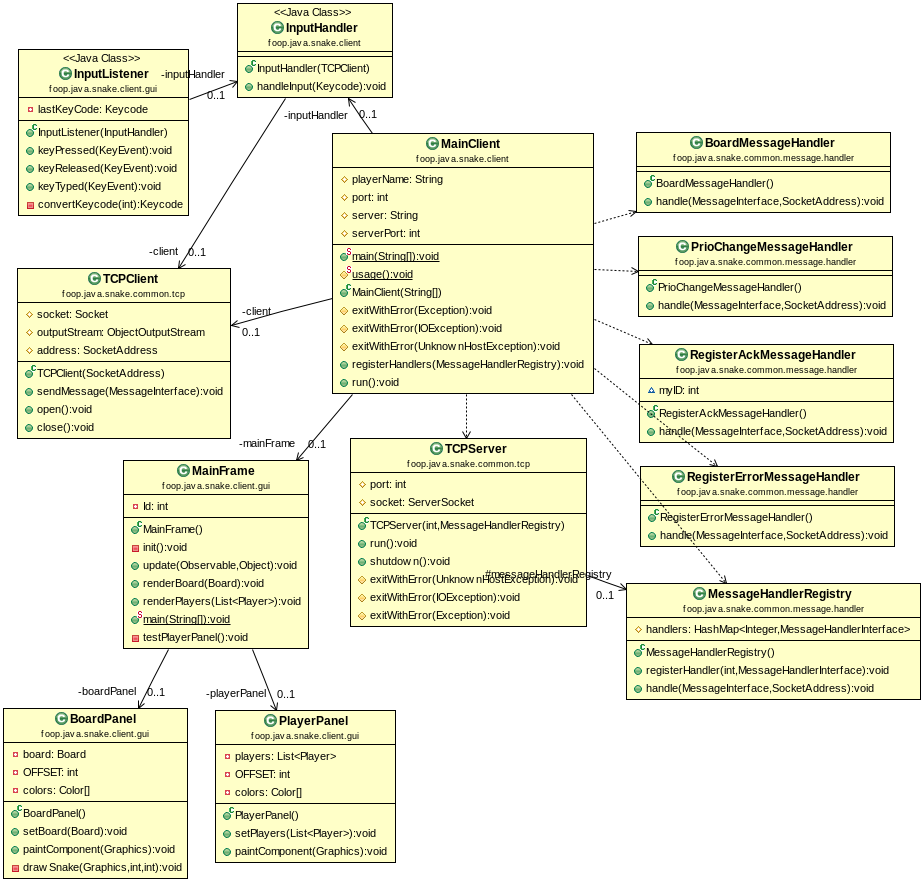
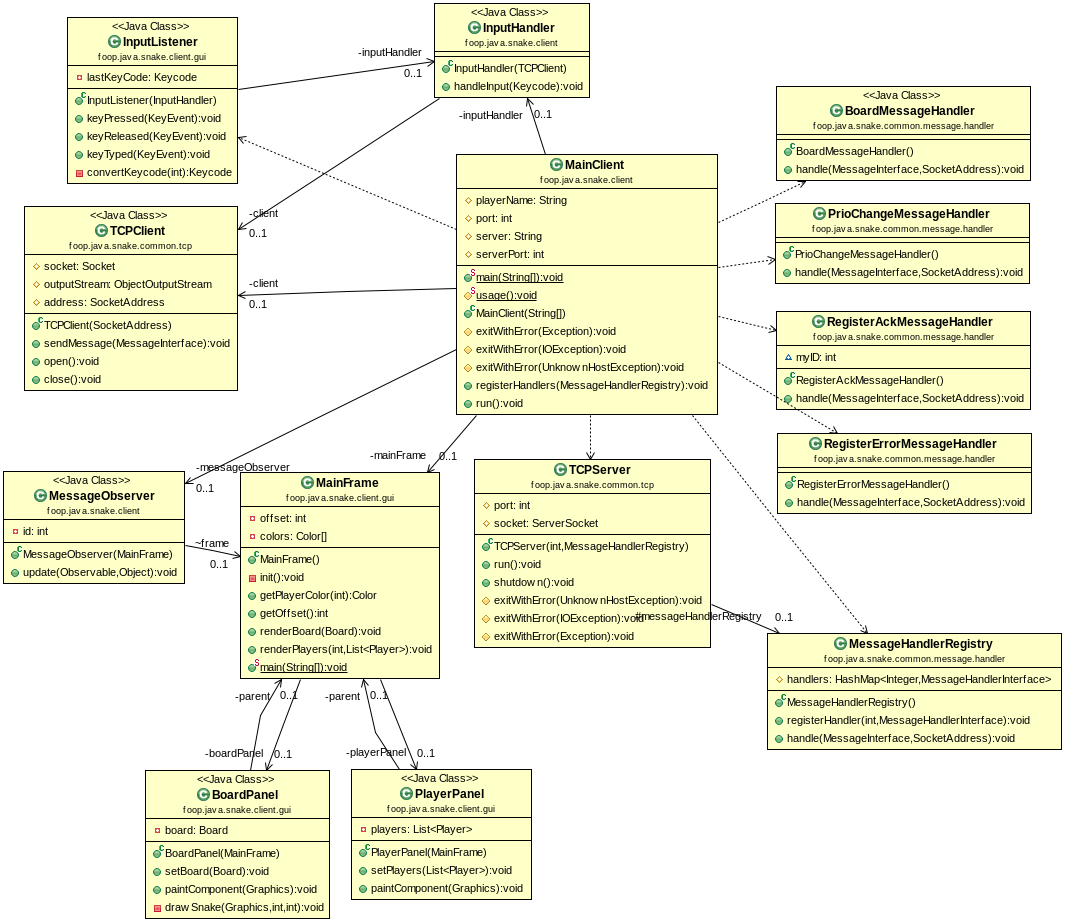
Deregister on close

diff --git a/snake-java/client/src/foop/java/snake/client/gui/MainFrame.java b/snake-java/client/src/foop/java/snake/client/gui/MainFrame.java
@@ -2,7 +2,6 @@ package foop.java.snake.client.gui;
 
 import foop.java.snake.common.board.Board;
 import foop.java.snake.common.player.*;
-
 import javax.swing.*;
 
 import java.awt.*;
@@ -14,12 +13,11 @@ import java.util.List;
  * Date: 26.03.13
  * Time: 13:33
  */
-public class MainFrame extends JFrame implements Observer {
+public class MainFrame extends JFrame {
     //panel where the board is rendered
     private BoardPanel boardPanel;
     private PlayerPanel playerPanel;
 
-    private int id = 0; //our Player-ID
     private int offset = 20;
     private Color[] colors = new Color[] {
             Color.blue,
@@ -34,7 +32,8 @@ public class MainFrame extends JFrame implements Observer {
     public MainFrame() {
         init();
         //set some frame properties
-        this.setDefaultCloseOperation(WindowConstants.EXIT_ON_CLOSE);
+        // do nothing but add a window listener...
+        this.setDefaultCloseOperation(WindowConstants.DO_NOTHING_ON_CLOSE);
         this.setTitle("Snake");
         this.setSize(722, 623);
         this.setVisible(true);
@@ -64,25 +63,6 @@ public class MainFrame extends JFrame implements Observer {
     }
 
     /**
-     * we have been updated by the Observable --> do something
-     * unfortunately Observer is not generic. We have to check and cast
-     * Not so very nice but I do not really want to create gerneri Observer/Observable for this
-     */
-    @Override
-    public void update(Observable o, Object arg) {
-        // Now, this is the problem here. We still have to distinguish from which Observable this is comming...
-        if (arg instanceof List<?>) {
-            this.renderPlayers((List<Player>)arg);
-        }
-        if (arg instanceof Board) {
-            this.renderBoard((Board)arg);
-        }
-        if (arg instanceof Integer) {
-            this.id=((Integer)arg).intValue();
-        }
-    }
-
-    /**
      * takes a board and renders int on the board panel
      * @param board board
      */
@@ -95,7 +75,7 @@ public class MainFrame extends JFrame implements Observer {
      * takes a list of @see {Player}-objects and renders int on the playeröierarchy panel
      * @param players List of Players
      */
-    public void renderPlayers(List<Player> players) {
+    public void renderPlayers(int id, List<Player> players) {
     	playerPanel.setPlayers(players);
     	playerPanel.repaint();
     }
@@ -113,7 +93,7 @@ public class MainFrame extends JFrame implements Observer {
         pl.add(new Player("Player 3", 2, 3, 1));
         pl.add(new Player("Player 4", 3, 6, 2));
         pl.add(new Player("Player 5", 4, 2, 3));
-        mainFrame.renderPlayers(pl);
+        mainFrame.renderPlayers(0, pl);
 
         Board board = new Board(30, 30);
         Byte[][] b = new Byte[][]{

diff --git a/snake-java/client/src/foop/java/snake/client/MainClient.java b/snake-java/client/src/foop/java/snake/client/MainClient.java
@@ -1,8 +1,13 @@
 package foop.java.snake.client;
 
+import java.awt.event.WindowAdapter;
+import java.awt.event.WindowEvent;
+import java.awt.event.WindowListener;
 import java.io.IOException;
 import java.net.InetSocketAddress;
 import java.net.UnknownHostException;
+
+import javax.swing.WindowConstants;
 
 import foop.java.snake.client.gui.InputListener;
 import foop.java.snake.client.gui.MainFrame;
@@ -11,6 +16,7 @@ import foop.java.snake.common.message.PrioChangeMessage;
 import foop.java.snake.common.message.RegisterAckMessage;
 import foop.java.snake.common.message.RegisterErrorMessage;
 import foop.java.snake.common.message.RegisterMessage;
+import foop.java.snake.common.message.UnregisterMessage;
 import foop.java.snake.common.message.handler.BoardMessageHandler;
 import foop.java.snake.common.message.handler.MessageHandlerRegistry;
 import foop.java.snake.common.message.handler.PrioChangeMessageHandler;
@@ -56,7 +62,8 @@ class MainClient
     private InputHandler inputHandler;
 
     private MainFrame mainFrame;
-
+    private MessageObserver messageObserver;
+    
     protected String playerName;
     protected int port;
     protected String server;
@@ -76,6 +83,21 @@ class MainClient
         serverPort = Integer.parseInt(args[3]);
 
     	mainFrame = new MainFrame();
+    	mainFrame.setDefaultCloseOperation(WindowConstants.DO_NOTHING_ON_CLOSE);
+
+    	// adding close-handling. Sending Deregister-message and exit
+    	mainFrame.addWindowListener(new WindowAdapter() 
+    	{
+    		public void windowClosing(WindowEvent e) {
+    			try {
+    				client.sendMessage(new UnregisterMessage(playerName));
+    			} catch (Exception ex) {
+    				// do nothing...
+    			}
+    			System.exit(0);
+    		}
+    	});
+    	messageObserver = new MessageObserver(mainFrame);
     }
 
     /**
@@ -129,14 +151,14 @@ class MainClient
 
         BoardMessageHandler b = new BoardMessageHandler();
         try {
-            b.addObserver(mainFrame);
+            b.addObserver(messageObserver);
             handlerRegistry.registerHandler(BoardMessage.TYPE, b);
         } catch (NullPointerException ex) {
             exitWithError(ex);
         }
 
 		PrioChangeMessageHandler p = new PrioChangeMessageHandler();
-		p.addObserver(mainFrame);
+		p.addObserver(messageObserver);
         handlerRegistry.registerHandler(
                 PrioChangeMessage.TYPE, p
         );

diff --git a/snake-java/common/src/foop/java/snake/common/message/handler/UnregisterMessageHandler.java b/snake-java/common/src/foop/java/snake/common/message/handler/UnregisterMessageHandler.java
@@ -8,6 +8,7 @@ import foop.java.snake.common.message.UnregisterMessage;
 import foop.java.snake.common.message.MessageInterface;
 import foop.java.snake.common.message.exception.NoMessageHandlerFoundException;
 import foop.java.snake.common.player.PlayerRegistry;
+import foop.java.snake.common.tcp.TCPClient;
 import foop.java.snake.common.tcp.TCPClientRegistry;
 
 /**
@@ -35,7 +36,7 @@ public class UnregisterMessageHandler implements MessageHandlerInterface {
             throw new NoMessageHandlerFoundException("This is not a UnregisterMessage.");
         }
 		UnregisterMessage unregisterMessage = (UnregisterMessage)message;
-        MessageInterface response;
+//        MessageInterface response;
 
         // message received, remove Player from player-registry
         String playerName=unregisterMessage.getPlayerName();
@@ -49,10 +50,9 @@ public class UnregisterMessageHandler implements MessageHandlerInterface {
 
         } else {
         	// player cannot be removed as it is not registerred...
-        	// send Error-response
-            response = new RegisterErrorMessage("The name \"" + playerName + "\" is not registerred and therefore cannot be removed");
-            System.out.println("UnregisterMessageHandler: Username \"" + playerName + "\" does not exist.");
-            response = new RegisterAckMessage();
+        	// In that case we cannot send an error-response and we do nothing...
+//            response = new RegisterErrorMessage("The name \"" + playerName + "\" is not registerred and therefore cannot be removed");
+            System.out.println("UnregisterMessageHandler: Username \"" + playerName + "\" does not exist.");           
         }
 
 	}

diff --git a/snake-java/server/src/foop/java/snake/server/MainServer.java b/snake-java/server/src/foop/java/snake/server/MainServer.java
@@ -65,8 +65,11 @@ class MainServer
         try {
             MessageHandlerRegistry messageHandlerRegistry = new MessageHandlerRegistry();
             messageHandlerRegistry.registerHandler(
-                RegisterMessage.TYPE, new RegisterMessageHandler(playerRegistry, clientRegistry)
-            );
+                    RegisterMessage.TYPE, new RegisterMessageHandler(playerRegistry, clientRegistry)
+                );
+            messageHandlerRegistry.registerHandler(
+                    UnregisterMessage.TYPE, new UnregisterMessageHandler(playerRegistry, clientRegistry)
+                );
 
             messageHandlerRegistry.registerHandler(InputMessage.TYPE, new InputMessageHandler());
 

diff --git a/snake-java/common/src/foop/java/snake/common/message/handler/InputMessageHandler.java b/snake-java/common/src/foop/java/snake/common/message/handler/InputMessageHandler.java
@@ -43,6 +43,9 @@ public class InputMessageHandler implements MessageHandlerInterface {
 			case DOWN:
 				System.out.println("DOWN" );
 				break;
+			case QUIT:
+				System.out.println("QUIT" );
+				break;
 			case IGNORE:
 				System.out.println("IGNORE" );
 		}

diff --git a/snake-java/common/src/foop/java/snake/common/message/InputMessage.java b/snake-java/common/src/foop/java/snake/common/message/InputMessage.java
@@ -11,7 +11,7 @@ public class InputMessage implements MessageInterface {
     public static final int TYPE = 4;
 
 	public enum Keycode {
-		IGNORE, UP, DOWN, LEFT, RIGHT 
+		IGNORE, UP, DOWN, LEFT, RIGHT, QUIT 
 	}
 	
 	private Keycode input;

diff --git a/snake-java/client/src/foop/java/snake/client/gui/InputListener.java b/snake-java/client/src/foop/java/snake/client/gui/InputListener.java
@@ -67,6 +67,8 @@ public class InputListener implements KeyListener
 			case 83: // 'S'
 			case 40: // Arrow Down
 				return Keycode.DOWN;
+			case 81: // 'Q for quit'
+				return Keycode.QUIT;
 			default:
 				return Keycode.IGNORE;
 		}
